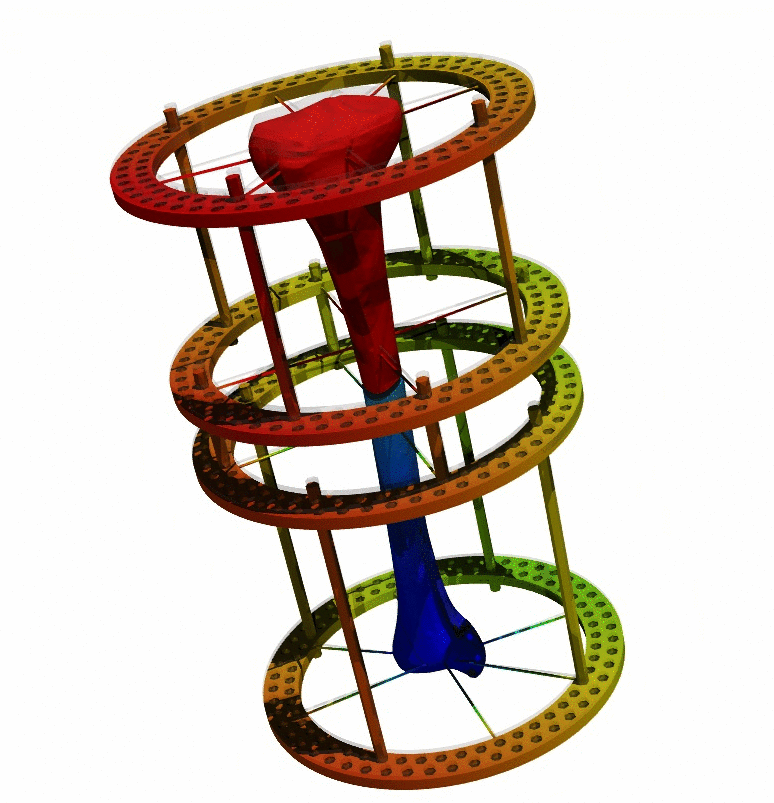
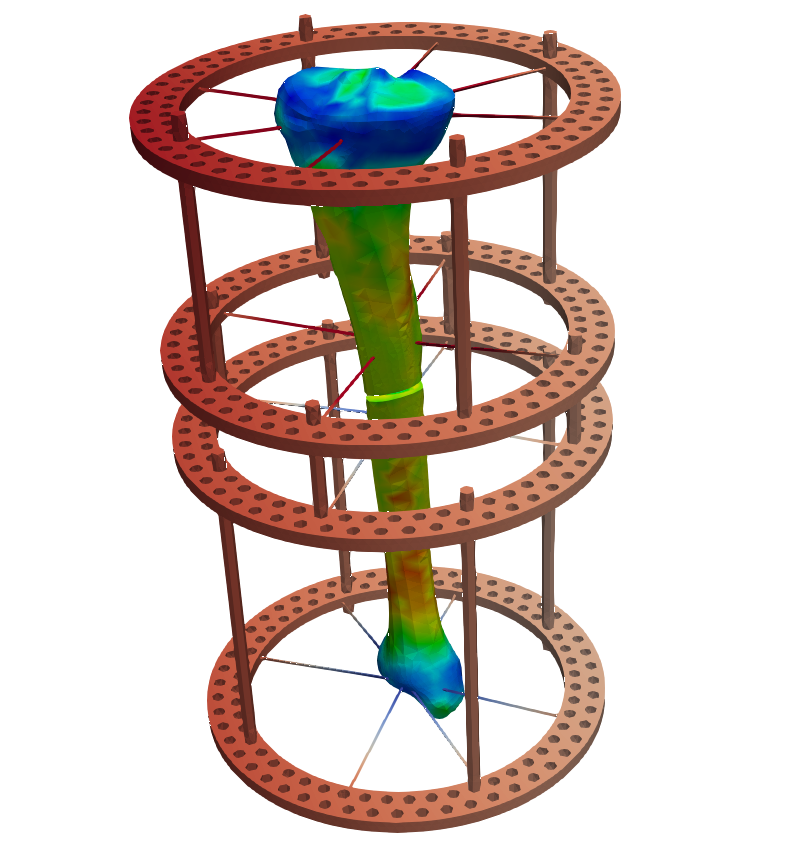
slowly building that website

diff --git a/_includes/figure.html b/_includes/figure.html
@@ -4,11 +4,18 @@
 
   <picture>
     {% for i in site.imagemagick.widths -%}
-      <source media="(max-width: {{ i }}px)" srcset="{{ path | relative_url }}-{{ i }}.webp" />
+    <source media="(max-width: {{ i }}px)" srcset="{{ path | relative_url }}-{{ i }}.webp" />
     {% endfor -%}
 
-    <!-- Fallback to the original file -->
-    <img {% if include.class %}class="{{ include.class }}"{% endif %} src="{{ include.path | relative_url }}" {% if include.alt %}alt="{{ include.alt }}"{% endif %} {% if include.title %}title="{{ include.title }}"{% endif %} {% if include.zoomable %}data-zoomable{% endif %} />
+    {%- if include.url and include.zoomable == false -%}<a href="{{ include.url }}">{%- endif %}
+
+      <!-- Fallback to the original file -->
+      <img {% if include.class %}class="{{ include.class }}" {% endif %} src="{{ include.path | relative_url }}" {% if
+        include.alt %}alt="{{ include.alt }}" {% endif %} {% if include.title %}title="{{ include.title }}" {% endif %}
+        {% if include.zoomable %}data-zoomable{% endif %} />
+
+      {%- if include.url and include.zoomable == false -%}
+    </a> {%- endif %}
 
   </picture>
 

diff --git a/blog/index.html b/blog/index.html
@@ -5,7 +5,7 @@ pagination:
   enabled: true
   collection: posts
   permalink: /page/:num/
-  per_page: 3
+  per_page: 4
   sort_field: date
   sort_reverse: true
   trail:

diff --git a/_projects/flow_forming.md b/_projects/flow_forming.md
@@ -1,20 +1,43 @@
 ---
 layout: page
 title: Flow forming
-description: An update on the module
-img: assets/img/main_projects/simple_flow_form.png
+description: An integrated framework for fundamental understanding and process optimisation
+img: assets/img/main_projects/proper_flow_forming.png
 importance: 1
 category: main
 ---
+
+
+<!-- ![Alt Text](https://media.giphy.com/media/vFKqnCdLPNOKc/giphy.gif) -->
+
+[![homepage](assets/img/main_projects/gif_test.gif)](http://commonmark.org "Redirect to homepage")
 
 Every project has a beautiful feature showcase page.
 It's easy to include images in a flexible 3-column grid format.
 Make your photos 1/3, 2/3, or full width.
 
+<iframe width="560"
+        height="315"
+        src="https://www.youtube.com/embed/581MZC-hW0k"
+        frameborder="0"
+        allow="autoplay; encrypted-media"
+        allowfullscreen></iframe>
 
-[![Watch the video](https://img.youtube.com/vi/581MZC-hW0k/0.jpg)](https://youtu.be/581MZC-hW0k)
 
-[<img src="https://img.youtube.com/vi/581MZC-hW0k/maxresdefault.jpg" width="50%">](https://youtu.be/581MZC-hW0k)
+<div class="row">
+    <div class="col-sm mt-3 mt-md-0">
+        {% include figure.html path="assets/img/main_projects/gif_test.gif" url="http://jekyllrb.com" title="example image" class="img-fluid rounded z-depth-1" zoomable=false %}
+    </div>
+</div>
+<div class="caption">
+    This is a test gif.
+</div>
+
+<!-- [![Foo](assets/img/main_projects/gif_test.gif)](http://google.com/) -->
+
+<!-- [![Watch the video](https://img.youtube.com/vi/581MZC-hW0k/0.jpg)](https://youtu.be/581MZC-hW0k) -->
+
+<!-- [<img src="https://img.youtube.com/vi/581MZC-hW0k/maxresdefault.jpg" width="50%">](https://youtu.be/581MZC-hW0k) -->
 
 To give your project a background in the portfolio page, just add the img tag to the front matter like so:
 
@@ -27,13 +50,13 @@ To give your project a background in the portfolio page, just add the img tag to
 
 <div class="row">
     <div class="col-sm mt-3 mt-md-0">
-        {% include figure.html path="assets/img/1.jpg" title="example image" class="img-fluid rounded z-depth-1" %}
+        {% include figure.html path="assets/img/1.jpg" title="example image" class="img-fluid rounded z-depth-1" zoomable=true %}
     </div>
     <div class="col-sm mt-3 mt-md-0">
-        {% include figure.html path="assets/img/3.jpg" title="example image" class="img-fluid rounded z-depth-1" %}
+        {% include figure.html path="assets/img/3.jpg" title="example image" class="img-fluid rounded z-depth-1" zoomable=true %}
     </div>
     <div class="col-sm mt-3 mt-md-0">
-        {% include figure.html path="assets/img/5.jpg" title="example image" class="img-fluid rounded z-depth-1" %}
+        {% include figure.html path="assets/img/5.jpg" title="example image" class="img-fluid rounded z-depth-1" zoomable=true %}
     </div>
 </div>
 <div class="caption">
@@ -41,7 +64,7 @@ To give your project a background in the portfolio page, just add the img tag to
 </div>
 <div class="row">
     <div class="col-sm mt-3 mt-md-0">
-        {% include figure.html path="assets/img/5.jpg" title="example image" class="img-fluid rounded z-depth-1" %}
+        {% include figure.html path="assets/img/5.jpg" title="example image" class="img-fluid rounded z-depth-1" zoomable=true %}
     </div>
 </div>
 <div class="caption">
@@ -55,10 +78,10 @@ You describe how you toiled, sweated, *bled* for your project, and then... you r
 
 <div class="row justify-content-sm-center">
     <div class="col-sm-8 mt-3 mt-md-0">
-        {% include figure.html path="assets/img/6.jpg" title="example image" class="img-fluid rounded z-depth-1" %}
+        {% include figure.html path="assets/img/6.jpg" title="example image" class="img-fluid rounded z-depth-1" zoomable=true %}
     </div>
     <div class="col-sm-4 mt-3 mt-md-0">
-        {% include figure.html path="assets/img/11.jpg" title="example image" class="img-fluid rounded z-depth-1" %}
+        {% include figure.html path="assets/img/11.jpg" title="example image" class="img-fluid rounded z-depth-1" zoomable=true %}
     </div>
 </div>
 <div class="caption">
@@ -75,10 +98,10 @@ Here's the code for the last row of images above:
 ```html
 <div class="row justify-content-sm-center">
     <div class="col-sm-8 mt-3 mt-md-0">
-        {% include figure.html path="assets/img/6.jpg" title="example image" class="img-fluid rounded z-depth-1" %}
+        {% include figure.html path="assets/img/6.jpg" title="example image" class="img-fluid rounded z-depth-1" zoomable=true %}
     </div>
     <div class="col-sm-4 mt-3 mt-md-0">
-        {% include figure.html path="assets/img/11.jpg" title="example image" class="img-fluid rounded z-depth-1" %}
+        {% include figure.html path="assets/img/11.jpg" title="example image" class="img-fluid rounded z-depth-1" zoomable=true %}
     </div>
 </div>
 ```

diff --git a/_posts/2022-01-19-what_mofem-offers.md b/_posts/2022-01-19-what_mofem-offers.md
@@ -1,0 +1,39 @@
+---
+layout: post
+title: What MoFEM offers?
+date: 2022-01-19 12:00:00
+description: Main features of the MoFEM finite element library
+tags: programming
+categories: MoFEM
+img: assets/img/posts/magnetost_mf.png
+---
+
+
+
+<a href="http://mofem.eng.gla.ac.uk/mofem/">MoFEM</a> (Mesh-oriented Finite Element Method) is a C++ library for managing complexities related to the finite element method (FEM). FEM is a widely used numerical approach for solving partial differential equations (PDEs) arising in various physical problems. MoFEM is developed to provide a finite element library incorporating modern approximation approaches and data structures for engineers, students and academics.
+
+
+Jean shorts raw denim Vice normcore, art party High Life PBR skateboard stumptown vinyl kitsch. Four loko meh 8-bit, tousled banh mi tilde forage Schlitz dreamcatcher twee 3 wolf moon. Chambray asymmetrical paleo salvia, sartorial umami four loko master cleanse drinking vinegar brunch. <a href="https://www.pinterest.com">Pinterest</a> DIY authentic Schlitz, hoodie Intelligentsia butcher trust fund brunch shabby chic Kickstarter forage flexitarian. Direct trade <a href="https://en.wikipedia.org/wiki/Cold-pressed_juice">cold-pressed</a> meggings stumptown plaid, pop-up taxidermy. Hoodie XOXO fingerstache scenester Echo Park. Plaid ugh Wes Anderson, freegan pug selvage fanny pack leggings pickled food truck DIY irony Banksy.
+
+An extensive list of features can be found under <a href="http://mofem.eng.gla.ac.uk/mofem/html/motivation.html">this link </a>.
+
+#### Hipster list
+<ul>
+    <li>brunch</li>
+    <li>fixie</li>
+    <li>raybans</li>
+    <li>messenger bag</li>
+</ul>
+
+Hoodie Thundercats retro, tote bag 8-bit Godard craft beer gastropub. Truffaut Tumblr taxidermy, raw denim Kickstarter sartorial dreamcatcher. Quinoa chambray slow-carb salvia readymade, bicycle rights 90's yr typewriter selfies letterpress cardigan vegan.
+
+<hr>
+
+Pug heirloom High Life vinyl swag, single-origin coffee four dollar toast taxidermy reprehenderit fap distillery master cleanse locavore. Est anim sapiente leggings Brooklyn ea. Thundercats locavore excepteur veniam eiusmod. Raw denim Truffaut Schlitz, migas sapiente Portland VHS twee Bushwick Marfa typewriter retro id keytar.
+
+<blockquote>
+... all models are approximations. Essentially, all models are wrong, but some are useful.
+    —Norman Draper
+</blockquote>
+
+Pug heirloom High Life vinyl swag, single-origin coffee four dollar toast taxidermy reprehenderit fap distillery master cleanse locavore. Est anim sapiente leggings Brooklyn ea. Thundercats locavore excepteur veniam eiusmod. Raw denim Truffaut Schlitz, migas sapiente Portland VHS twee Bushwick Marfa typewriter retro id keytar.

diff --git a/_posts/2022-02-12-programming_mofem.md b/_posts/2022-02-12-programming_mofem.md
@@ -17,3 +17,11 @@ img: assets/img/posts/coding_stock.jpg
 * initializers for `if` and `switch`
 * lambda capture of `this`
 * constexpr lambda
+
+
+
+#### MoFEM features that distinguish it from other software like dealii, mfem, fenics, moose
+
+* flexibility
+* higher order approximation
+* ??? 

diff --git a/_projects/modules_manager.md b/_projects/modules_manager.md
@@ -2,7 +2,7 @@
 layout: page
 title: MoFEM modules manager
 description: Generic interface for coupling MoFEM users modules
-img: assets/img/side_projects/modules_manager.png
+img: assets/img/side_projects/modules_manager3.png
 importance: 5
 category: side
 ---

diff --git a/_projects/bone_fracture.md b/_projects/bone_fracture.md
@@ -2,7 +2,7 @@
 layout: page
 title: bone fracture
 description: My PhD project regarding bones fractures
-img: assets/img/main_projects/bone_implant.png
+img: assets/img/main_projects/better_bone.png
 importance: 2
 category: main
 ---

diff --git a/_projects/hpc_developments.md b/_projects/hpc_developments.md
@@ -3,6 +3,6 @@ layout: page
 title: HPC tailored solvers in MoFEM
 description: High Performance computing studies and optimisations
 img: assets/img/side_projects/hpc_example.png
-importance: 7
+importance: 3
 category: side
 ---

diff --git a/_projects/phase_field.md b/_projects/phase_field.md
@@ -3,7 +3,7 @@ layout: page
 title: Phase field for fracture
 description: My implementation of phase field for brittle fracture
 img: assets/img/side_projects/phase_field1.png
-importance: 5
+importance: 6
 category: side
 ---
 

diff --git a/_projects/topology_optimisation.md b/_projects/topology_optimisation.md
@@ -3,7 +3,7 @@ layout: page
 title: Topology optimisation
 description: My simple topology optimisation implementation in MoFEM
 img: assets/img/side_projects/topology_1.png
-importance: 3
+importance: 7
 category: side
 ---
 

diff --git a/_pages/about.md b/_pages/about.md
@@ -3,7 +3,7 @@ layout: about
 title: about
 permalink: /
 # subtitle: <a href='#'>Affiliations</a>. Address. Contacts. Moto. Etc.
-subtitle: MEng, MSc, PhD
+subtitle: MSc (Eng), PhD
 
 profile:
   align: right
